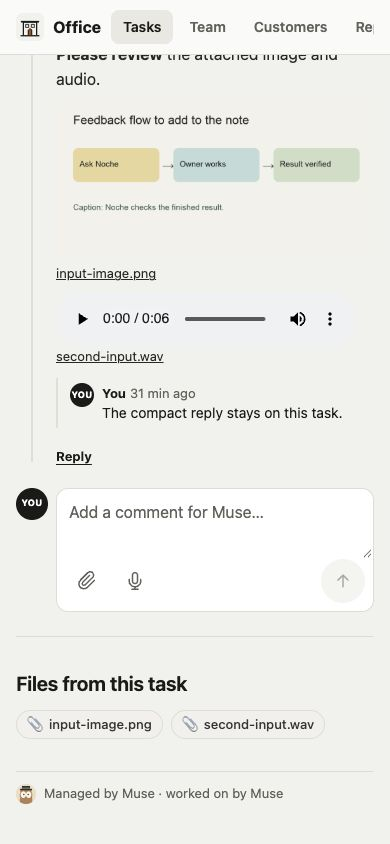
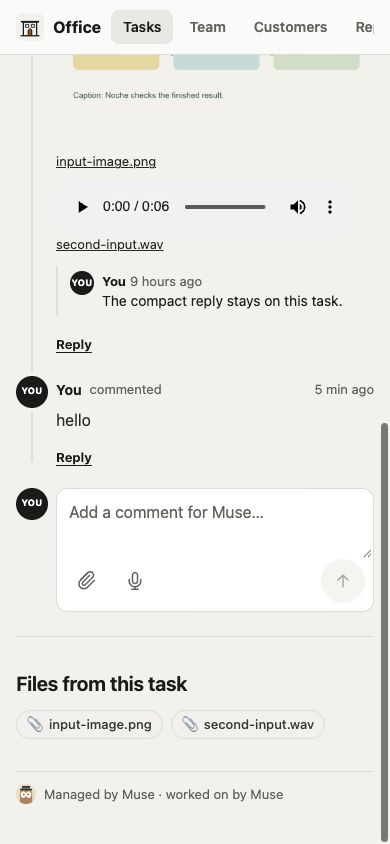
feat(comments): preview draft audio before sending
Users need to hear a voice recording before sharing it. Add native playback for local audio drafts and release the preview when the draft is removed or saved. Teach Muse the same behavior for its generated Office.

diff --git a/src/components/comments/CommentForm.tsx b/src/components/comments/CommentForm.tsx
@@ -28,6 +28,23 @@ type Props = Target & {
   id?: string; autoFocus?: boolean; onDone?: () => void;
 };
 
+function DraftAudio({ file }: { file: File }) {
+  const player = useRef<HTMLAudioElement>(null);
+  const [url, setUrl] = useState<string>();
+  useEffect(() => {
+    const preview = URL.createObjectURL(file);
+    const audio = player.current;
+    setUrl(preview);
+    return () => {
+      audio?.pause();
+      audio?.removeAttribute("src");
+      audio?.load();
+      URL.revokeObjectURL(preview);
+    };
+  }, [file]);
+  return <audio ref={player} controls preload="metadata" src={url} aria-label={`Preview ${file.name}`} />;
+}
+
 export function CommentForm({ task, note, project, replyTo, placeholder, buttonLabel, compact, id, autoFocus, onDone }: Props) {
   const router = useRouter();
   const ref = useRef<HTMLTextAreaElement>(null);
@@ -129,8 +146,9 @@ export function CommentForm({ task, note, project, replyTo, placeholder, buttonL
     <textarea ref={ref} id={id} name="body" value={body} onChange={(e) => setBody(e.target.value)} onKeyDown={onKey}
       onPaste={(event) => { const incoming = Array.from(event.clipboardData.files); if (incoming.length) { event.preventDefault(); addFiles(incoming); } }}
       placeholder={placeholder} aria-label={placeholder} rows={compact ? 1 : 2} disabled={busy} />
-    {files.length > 0 && <ul className="oc-files">{files.map((f, i) => <li key={`${i}-${f.name}`}>
+    {files.length > 0 && <ul className="oc-files">{files.map((f, i) => <li key={`${i}-${f.name}`} className={f.type.startsWith("audio/") ? "oc-audio" : undefined}>
       <span>{f.name}</span><button type="button" aria-label={`Remove ${f.name}`} disabled={busy} onClick={() => setFiles((all) => all.filter((_, n) => n !== i))}>×</button>
+      {f.type.startsWith("audio/") && <DraftAudio file={f} />}
     </li>)}</ul>}
     <div className="oc-actions">
       <input ref={picker} type="file" hidden multiple accept="image/png,image/jpeg,image/webp,image/gif,audio/webm,audio/ogg,audio/wav,audio/x-wav,audio/mpeg,audio/mp4,audio/aac,application/pdf,text/plain,text/markdown,.md,.txt,.m4a" onChange={(e) => { addFiles(Array.from(e.target.files || [])); e.target.value = ""; }} />

diff --git a/src/components/comments/comments.css b/src/components/comments/comments.css
@@ -17,6 +17,8 @@
 .oc-files li { display: flex; align-items: center; gap: 6px; background: var(--bg); border-radius: var(--r-chip); padding: 2px 6px; min-width: 0; max-width: 100%; font-size: var(--t-cap); }
 .oc-files span { overflow: hidden; text-overflow: ellipsis; white-space: nowrap; }
 .oc-files button { border: 0; background: transparent; color: var(--ink); padding: 4px; cursor: pointer; }
+.oc-files li.oc-audio { display: grid; grid-template-columns: minmax(0, 1fr) auto; flex-basis: 100%; padding: 0; background: transparent; }
+.oc-audio audio { display: block; grid-column: 1 / -1; width: 100%; min-width: 0; }
 .oc-error { color: var(--needs); font-size: var(--t-cap); padding: 0 12px 8px; }
 .oc-body { overflow-wrap: anywhere; min-width: 0; }
 .oc-body p { margin: 0 0 6px; }

diff --git a/spec/PAGES.md b/spec/PAGES.md
@@ -35,7 +35,7 @@ Like an issue page, top to bottom:
 4. **Done when**: a checklist; met items show a green check.
 5. **Plan**: a numbered list; the current step is bold with "· now"; done steps are grey.
 6. **Conversation**: a vertical timeline. The last update before a task was moved to Done is its closing report (what was done, the result, the files, what was learned); that is where the detail of a task lives, not in chat. Small grey events ("<Muse> made this task from your chat", "Scout started on it"). Flat updates with the author's avatar, name, "posted an update" / "asked you" / "reported a result", the time, the body, and attached files (images as previews, audio with playback, other files as links). Keep the peach pinned question; ordinary updates have no enclosing card or colored header. Replies are indented under their original update. Each update has a "Reply" link that opens a compact input.
-7. **The comment box**: "[you] Add a comment for <Muse> and Penny…" in one compact field containing paperclip, microphone and upward-arrow send icons. Use the same component on task, note and project pages and replies, with accessible names and 44px touch targets. No extra input heading, shortcut hint or privacy caption. Posting stores a `task_updates` row (`author = you`, `kind = comment`, `unread_by_agent = 1`). Enter inserts a line; Shift+Enter sends, with Ctrl/Cmd+Enter retained. See `hat/skills/contextual-comments/SKILL.md` for input, host capability, and verification rules.
+7. **The comment box**: "[you] Add a comment for <Muse> and Penny…" in one compact field containing paperclip, microphone and upward-arrow send icons. Use the same component on task, note and project pages and replies, with accessible names and 44px touch targets. Audio drafts have compact local Play/Pause controls before Send, including recordings after they stop. No extra input heading, shortcut hint or privacy caption. Posting stores a `task_updates` row (`author = you`, `kind = comment`, `unread_by_agent = 1`). Enter inserts a line; Shift+Enter sends, with Ctrl/Cmd+Enter retained. See `hat/skills/contextual-comments/SKILL.md` for input, host capability, and verification rules.
 8. **Files from this task**: chips that open the file; "No files yet. They show up here when Penny finishes." when empty.
 9. Footer: "[avatar] Managed by <Muse> · worked on by Penny".
 

diff --git a/hat/skills/contextual-comments/SKILL.md b/hat/skills/contextual-comments/SKILL.md
@@ -29,6 +29,11 @@ is reading; it is not a second chat app or a way to edit project data.
   heading, shortcut hint, privacy caption, help paragraph or scheduler banner.
   Show recording state or an error only when the action needs it. Preserve the
   draft and attachments on a failed save.
+- Give every audio draft a compact native player with Play/Pause before Send,
+  including recordings after they stop and attached audio files. Preview its
+  local File with a browser object URL; do not upload it to listen or autoplay.
+  Stop playback and release the URL on removal, successful save, or unmount.
+  Preserve the preview on a failed save. Add no extra heading or helper text.
 - Keep task and note detail pages flat, like a document. Description, updates, comments and
   files share the page gutter; do not stack padded white cards around them.
   Preserve the board, portraits, page colors, data and follow-through behavior.

diff --git a/spec/DESIGN.md b/spec/DESIGN.md
@@ -89,6 +89,10 @@ Record/Stop accessible name and leave `aria-pressed` unset. The resting field ne
 extra heading, keyboard-shortcut hint, privacy caption or help paragraph.
 Keep recording state, attached filenames and failed-action feedback local to
 the input. Preserve the existing keyboard and private-storage behavior.
+An audio draft, whether recorded or attached, includes compact native Play/Pause
+controls before Send. Preview the local file without uploading or autoplaying;
+stop playback and release its object URL when removed, saved, or unmounted.
+Keep the preview with the draft if saving fails. Add no extra heading or caption.
 
 ## Avatars
 

diff --git a/docs/DEVELOPING.md b/docs/DEVELOPING.md
@@ -37,7 +37,7 @@ tables, and Mermaid diagrams.
 - [Starter Reports](screenshots/starter-reports.jpg)
 - [Starter Note with Markdown and Mermaid](screenshots/starter-note-mermaid.jpg)
 - [Compact comment input and flat task updates](screenshots/minimal-comment-input.jpg)
-- [Comment draft with image and audio attachments](screenshots/minimal-comment-draft.jpg)
+- [Audio draft with Play/Pause before Send](screenshots/minimal-comment-draft.jpg)
 - [More Office screenshots](screenshots/)
 
 Earlier examples from an Office built by Muse are available in the
